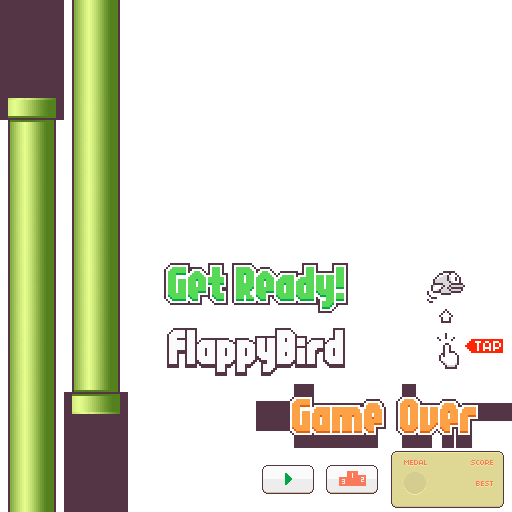
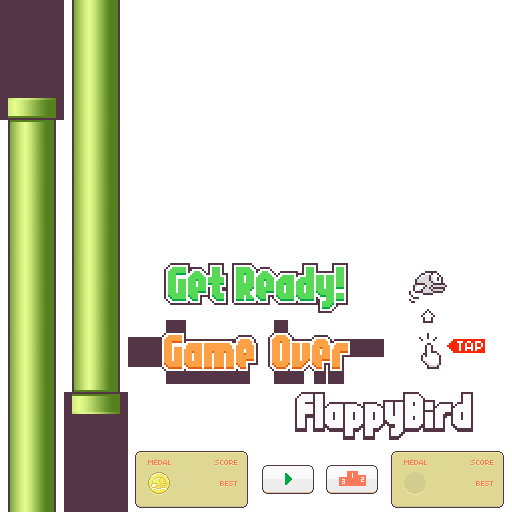
Add files via upload

Changed region(s): [[0.25, 0.625, 1.0, 0.875], [0.25, 0.875, 0.5, 1.0], [0.7812, 0.5312, 1.0, 0.7188]]

diff --git a/flappy_bird/scripts/c3runtime.js b/flappy_bird/scripts/c3runtime.js
@@ -497,6 +497,42 @@ self["C3_Shaders"] = {};
 
 "use strict";C3.Plugins.Audio.Exps={Duration(b){const c=this._GetFirstAudioStateByTag(b);return c?c["duration"]:0},PlaybackTime(b){const c=this._GetFirstAudioStateByTag(b);return c?c["playbackTime"]:0},PlaybackRate(b){const c=this._GetFirstAudioStateByTag(b);return c?c["playbackRate"]:0},Volume(b){const c=this._GetFirstAudioStateByTag(b);return c?this.LinearToDb(c["volume"]):0},MasterVolume(){return this.LinearToDb(this._masterVolume)},EffectCount(a){return this._effectCount.get(a.toLowerCase())||0},AnalyserFreqBinCount(a,b){const c=this.GetAnalyserData(a,Math.floor(b));return c?c["binCount"]:0},AnalyserFreqBinAt(a,b,c){var d=Math.floor;const e=this.GetAnalyserData(a,d(b));return e?(c=d(c),0>c||c>=e["binCount"]?0:e["freqBins"][c]):0},AnalyserPeakLevel(a,b){const c=this.GetAnalyserData(a,Math.floor(b));return c?c["peak"]:0},AnalyserRMSLevel(a,b){const c=this.GetAnalyserData(a,Math.floor(b));return c?c["rms"]:0},SampleRate(){return this._sampleRate},CurrentTime(){return self["C3_GetAudioContextCurrentTime"]?self["C3_GetAudioContextCurrentTime"]():performance.now()/1e3}};
 
+"use strict";C3.Plugins.Text=class extends C3.SDKPluginBase{constructor(a){super(a)}Release(){super.Release()}};
+
+"use strict";C3.Plugins.Text.Type=class extends C3.SDKTypeBase{constructor(a){super(a)}Release(){super.Release()}OnCreate(){}LoadTextures(){}ReleaseTextures(){}};
+
+"use strict";{const a=[0,0,0],b=["left","center","right"],c=["top","center","bottom"],d=new C3.Rect,e=new C3.Quad;C3.Plugins.Text.Instance=class extends C3.SDKWorldInstanceBase{constructor(a,b){if(super(a),this._text="",this._enableBBcode=!0,this._faceName="Arial",this._ptSize=12,this._lineHeightOffset=0,this._isBold=!1,this._isItalic=!1,this._color=C3.New(C3.Color),this._horizontalAlign=0,this._verticalAlign=0,this._wrapByWord=!0,this._typewriterStartTime=-1,this._typewriterEndTime=-1,this._typewriterLength=0,this._webglText=C3.New(C3.Gfx.WebGLText,this._runtime.GetWebGLRenderer(),{timeout:5}),this._webglText.ontextureupdate=()=>this._runtime.UpdateRender(),this._webglText.SetIsAsync(!1),b){this._text=b[0],this._enableBBcode=!!b[1],this._faceName=b[2],this._ptSize=b[3],this._lineHeightOffset=b[4],this._isBold=!!b[5],this._isItalic=!!b[6],this._horizontalAlign=b[8],this._verticalAlign=b[9],this._wrapByWord=0===b[10];const a=b[7];this._color.setRgb(a[0],a[1],a[2]),this.GetWorldInfo().SetVisible(b[11])}this._UpdateTextSettings()}Release(){this._CancelTypewriter(),this._webglText.Release(),this._webglText=null,super.Release()}_UpdateTextSettings(){const a=this._webglText;a.SetText(this._text),a.SetBBCodeEnabled(this._enableBBcode),a.SetFontName(this._faceName),a.SetFontSize(this._ptSize),a.SetLineHeight(this._lineHeightOffset),a.SetBold(this._isBold),a.SetItalic(this._isItalic),a.SetColor(this._color),a.SetHorizontalAlignment(b[this._horizontalAlign]),a.SetVerticalAlignment(c[this._verticalAlign]),a.SetWordWrapMode(this._wrapByWord?"word":"character")}_UpdateTextSize(){const a=this.GetWorldInfo(),b=a.GetLayer(),c=b.GetRenderScale()*b.Get2DScaleFactorToZ(a.GetTotalZElevation());this._webglText.SetSize(a.GetWidth(),a.GetHeight(),c)}Draw(a){var b=Math.round;const c=this.GetWorldInfo();this._UpdateTextSize();const f=this._webglText.GetTexture();if(!f)return;const g=c.GetLayer();let h=c.GetBoundingQuad();if(0===c.GetAngle()&&0===c.GetLayer().GetAngle()&&0===c.GetTotalZElevation()){const[c,i]=g.LayerToDrawSurface(h.getTlx(),h.getTly()),[j,k]=g.LayerToDrawSurface(h.getBrx(),h.getBry()),l=c-b(c),m=i-b(i);d.set(c,i,j,k),d.offset(-l,-m),e.setFromRect(d);const[n,o]=a.GetRenderTargetSize(a.GetRenderTarget());this._runtime.GetCanvasManager().SetDeviceTransform(a,n,o),a.SetTexture(f),a.Quad3(e,this._webglText.GetTexRect()),g._SetTransform(a)}else{let c=0,d=0;this._runtime.IsPixelRoundingEnabled()&&(c=h.getTlx()-b(h.getTlx()),d=h.getTly()-b(h.getTly())),(0!=c||0!=d)&&(e.copy(h),e.offset(-c,-d),h=e),a.SetTexture(f),a.Quad3(h,this._webglText.GetTexRect())}}SaveToJson(){const a={"t":this._text,"c":this._color.toJSON(),"fn":this._faceName,"ps":this._ptSize};return this._enableBBcode&&(a["bbc"]=this._enableBBcode),0!==this._horizontalAlign&&(a["ha"]=this._horizontalAlign),0!==this._verticalAlign&&(a["va"]=this._verticalAlign),this._wrapByWord||(a["wr"]=this._wrapByWord),0!==this._lineHeightOffset&&(a["lho"]=this._lineHeightOffset),this._isBold&&(a["b"]=this._isBold),this._isItalic&&(a["i"]=this._isItalic),-1!==this._typewriterEndTime&&(a["tw"]={"st":this._typewriterStartTime,"en":this._typewriterEndTime,"l":this._typewriterLength}),a}LoadFromJson(a){if(this._CancelTypewriter(),this._text=a["t"],this._color.setFromJSON(a["c"]),this._faceName=a["fn"],this._ptSize=a["ps"],this._enableBBcode=!!a.hasOwnProperty("bbc")&&a["bbc"],this._horizontalAlign=a.hasOwnProperty("ha")?a["ha"]:0,this._verticalAlign=a.hasOwnProperty("va")?a["va"]:0,this._wrapByWord=!a.hasOwnProperty("wr")||a["wr"],this._lineHeightOffset=a.hasOwnProperty("lho")?a["lho"]:0,this._isBold=!!a.hasOwnProperty("b")&&a["b"],this._isItalic=!!a.hasOwnProperty("i")&&a["i"],a.hasOwnProperty("tw")){const b=a["tw"];this._typewriterStartTime=b["st"],this._typewriterEndTime=b["en"],this._typewriterLength=b["l"]}this._UpdateTextSettings(),-1!==this._typewriterEndTime&&this._StartTicking()}GetPropertyValueByIndex(b){return 0===b?this._text:1===b?this._enableBBcode:2===b?this._faceName:3===b?this._ptSize:4===b?this._lineHeightOffset:5===b?this._isBold:6===b?this._isItalic:7===b?(a[0]=this._color.getR(),a[1]=this._color.getG(),a[2]=this._color.getB(),a):8===b?this._horizontalAlign:9===b?this._verticalAlign:10===b?this._wrapByWord?1:0:void 0}SetPropertyValueByIndex(a,b){switch(a){case 0:if(this._text===b)return;this._text=b,this._UpdateTextSettings();break;case 1:if(this._enableBBcode===!!b)return;this._enableBBcode=!!b,this._UpdateTextSettings();break;case 2:if(this._faceName===b)return;this._faceName=b,this._UpdateTextSettings();break;case 3:if(this._ptSize===b)return;this._ptSize=b,this._UpdateTextSettings();break;case 4:if(this._lineHeightOffset===b)return;this._lineHeightOffset=b,this._UpdateTextSettings();break;case 5:if(this._isBold===!!b)return;this._isBold=!!b,this._UpdateTextSettings();break;case 6:if(this._isItalic===!!b)return;this._isItalic=!!b,this._UpdateTextSettings();break;case 7:const d=this._color,c=b;if(d.getR()===c[0]&&d.getG()===c[1]&&d.getB()===c[2])return;this._color.setRgb(c[0],c[1],c[2]),this._UpdateTextSettings();break;case 8:if(this._horizontalAlign===b)return;this._horizontalAlign=b,this._UpdateTextSettings();break;case 9:if(this._verticalAlign===b)return;this._verticalAlign=b,this._UpdateTextSettings();break;case 10:if(this._wrapByWord===(b===0))return;this._wrapByWord=b===0,this._UpdateTextSettings();}}SetPropertyOffsetValueByIndex(a,b){0!==b&&(3===a?(this._ptSize+=b,this._UpdateTextSettings()):4===a?(this._lineHeightOffset+=b,this._UpdateTextSettings()):void 0)}SetPropertyColorOffsetValueByIndex(a,c,d,e){(0!==c||0!==d||0!==e)&&(7===a?(this._color.addRgb(c,d,e),this._UpdateTextSettings()):void 0)}_SetText(a){this._text===a||(this._text=a,this._webglText.SetText(a),this._runtime.UpdateRender())}GetText(){return this._text}_StartTypewriter(a,b){this._SetText(a),this._typewriterStartTime=this._runtime.GetGameTime(),this._typewriterEndTime=this._typewriterStartTime+b,this._typewriterLength=C3.BBString.StripAnyTags(a).length,this._webglText.SetDrawMaxCharacterCount(0),this._StartTicking()}_CancelTypewriter(){this._typewriterStartTime=-1,this._typewriterEndTime=-1,this._typewriterLength=0,this._webglText.SetDrawMaxCharacterCount(-1),this._StopTicking()}_FinishTypewriter(){-1===this._typewriterEndTime||(this._CancelTypewriter(),this.Trigger(C3.Plugins.Text.Cnds.OnTypewriterTextFinished),this._runtime.UpdateRender())}_SetFontFace(a){this._faceName===a||(this._faceName=a,this._webglText.SetFontName(a),this._runtime.UpdateRender())}_GetFontFace(){return this._faceName}_SetBold(a){a=!!a;this._isBold===a||(this._isBold=a,this._webglText.SetBold(a),this._runtime.UpdateRender())}_IsBold(){return this._isBold}_SetItalic(a){a=!!a;this._isItalic===a||(this._isItalic=a,this._webglText.SetItalic(a),this._runtime.UpdateRender())}_IsItalic(){return this._isItalic}_SetFontSize(a){this._ptSize===a||(this._ptSize=a,this._webglText.SetFontSize(this._ptSize),this._runtime.UpdateRender())}_GetFontSize(){return this._ptSize}_SetLineHeight(a){this._lineHeightOffset===a||(this._lineHeightOffset=a,this._UpdateTextSettings(),this._runtime.UpdateRender())}_GetLineHeight(){return this._lineHeightOffset}_SetHAlign(a){this._horizontalAlign===a||(this._horizontalAlign=a,this._UpdateTextSettings(),this._runtime.UpdateRender())}_GetHAlign(){return this._horizontalAlign}_SetVAlign(a){this._verticalAlign===a||(this._verticalAlign=a,this._UpdateTextSettings(),this._runtime.UpdateRender())}_GetVAlign(){return this._verticalAlign}_SetWrapByWord(a){a=!!a;this._wrapByWord===a||(this._wrapByWord=a,this._UpdateTextSettings(),this._runtime.UpdateRender())}_IsWrapByWord(){return this._wrapByWord}Tick(){const a=this._runtime.GetGameTime();if(a>=this._typewriterEndTime)this._CancelTypewriter(),this.Trigger(C3.Plugins.Text.Cnds.OnTypewriterTextFinished),this._runtime.UpdateRender();else{let b=C3.relerp(this._typewriterStartTime,this._typewriterEndTime,a,0,this._typewriterLength);b=Math.floor(b),b!==this._webglText.GetDrawMaxCharacterCount()&&(this._webglText.SetDrawMaxCharacterCount(b),this._runtime.UpdateRender())}}GetDebuggerProperties(){return[{title:"plugins.text.name",properties:[{name:"plugins.text.properties.text.name",value:this._text,onedit:(a)=>this._SetText(a)}]}]}GetScriptInterfaceClass(){return ITextInstance}};const f=new WeakMap,g=new Map([["left",0],["center",1],["right",2]]),h=new Map([["top",0],["center",1],["bottom",2]]),i=new Map([["word",!0],["character",!1]]);self.ITextInstance=class extends IWorldInstance{constructor(){super(),f.set(this,IInstance._GetInitInst().GetSdkInstance())}get text(){return f.get(this).GetText()}set text(a){const b=f.get(this);b._CancelTypewriter(),b._SetText(a)}typewriterText(a,b){const c=f.get(this);c._CancelTypewriter(),c._StartTypewriter(a,b)}typewriterFinish(){f.get(this)._FinishTypewriter()}set fontFace(a){f.get(this)._SetFontFace(a)}get fontFace(){return f.get(this)._GetFontFace()}set isBold(a){f.get(this)._SetBold(a)}get isBold(){return f.get(this)._IsBold()}set isItalic(a){f.get(this)._SetItalic(a)}get isItalic(){return f.get(this)._IsItalic()}set sizePt(a){f.get(this)._SetFontSize(a)}get sizePt(){return f.get(this)._GetFontSize()}set lineHeight(a){f.get(this)._SetLineHeight(a)}get lineHeight(){return f.get(this)._GetLineHeight()}set horizontalAlign(a){const b=g.get(a);if("undefined"==typeof b)throw new Error("invalid mode");f.get(this)._SetHAlign(b)}get horizontalAlign(){return b[f.get(this)._GetHAlign()]}set verticalAlign(a){const b=h.get(a);if("undefined"==typeof b)throw new Error("invalid mode");f.get(this)._SetVAlign(b)}get verticalAlign(){return c[f.get(this)._GetVAlign()]}set wordWrapMode(a){const b=i.get(a);if("undefined"==typeof b)throw new Error("invalid mode");f.get(this)._SetWrapByWord(b)}get wordWrapMode(){return f.get(this)._IsWrapByWord()?"word":"character"}}}
+
+"use strict";C3.Plugins.Text.Cnds={CompareText(a,b){return b?this._text===a:C3.equalsNoCase(this._text,a)},IsRunningTypewriterText(){return-1!==this._typewriterEndTime},OnTypewriterTextFinished(){return!0}};
+
+"use strict";{const a=C3.New(C3.Color);C3.Plugins.Text.Acts={SetText(a){this._CancelTypewriter(),"number"==typeof a&&1e9>a&&(a=Math.round(1e10*a)/1e10),this._SetText(a.toString())},AppendText(a){this._CancelTypewriter(),"number"==typeof a&&1e9>a&&(a=Math.round(1e10*a)/1e10),a=a.toString();a&&this._SetText(this._text+a)},TypewriterText(a,b){this._CancelTypewriter(),"number"==typeof a&&1e9>a&&(a=Math.round(1e10*a)/1e10),this._StartTypewriter(a.toString(),b)},SetFontFace(a,b){let c=!1,d=!1;1===b?c=!0:2===b?d=!0:3===b?(c=!0,d=!0):void 0;a===this._faceName&&c===this._isBold&&d===this._isItalic||(this._SetFontFace(a),this._SetBold(c),this._SetItalic(d))},SetFontSize(a){this._SetFontSize(a)},SetFontColor(b){a.setFromRgbValue(b),a.clamp();this._color.equalsIgnoringAlpha(a)||(this._color.copyRgb(a),this._webglText.SetColor(this._color),this._runtime.UpdateRender())},SetWebFont(){console.warn("[Text] 'Set web font' action is deprecated and no longer has any effect")},SetEffect(a){this.GetWorldInfo().SetBlendMode(a),this._runtime.UpdateRender()},TypewriterFinish(){this._FinishTypewriter()},SetLineHeight(a){this._SetLineHeight(a)},SetHAlign(a){this._SetHAlign(a)},SetVAlign(a){this._SetVAlign(a)},SetWrapping(a){this._SetWrapByWord(0===a)}}}
+
+"use strict";C3.Plugins.Text.Exps={Text(){return this._text},PlainText(){return this._enableBBcode?C3.BBString.StripAnyTags(this._text):this._text},FaceName(){return this._faceName},FaceSize(){return this._ptSize},TextWidth(){return this._UpdateTextSize(),this._webglText.GetTextWidth()},TextHeight(){return this._UpdateTextSize(),this._webglText.GetTextHeight()},LineHeight(){return this._lineHeightOffset}};
+
+"use strict";C3.Plugins.LocalStorage=class extends C3.SDKPluginBase{constructor(a){super(a)}Release(){super.Release()}};
+
+"use strict";C3.Plugins.LocalStorage.Type=class extends C3.SDKTypeBase{constructor(a){super(a)}Release(){super.Release()}OnCreate(){}};
+
+"use strict";C3.Plugins.LocalStorage.Instance=class extends C3.SDKInstanceBase{constructor(a){super(a),this._currentKey="",this._lastValue="",this._keyNamesList=[],this._errorMessage="",this._pendingGets=0,this._pendingSets=0,this._storage=this._runtime._GetProjectStorage(),this._debugCache=new Map,this._isLoadingDebugCache=!1}Release(){super.Release()}async _TriggerStorageError(a){this._errorMessage=this._GetErrorString(a),await this.TriggerAsync(C3.Plugins.LocalStorage.Cnds.OnError)}_GetErrorString(a){return a?"string"==typeof a?a:"string"==typeof a.message?a.message:"string"==typeof a.name?a.name:"string"==typeof a.data?a.data:"unknown error":"unknown error"}GetDebuggerProperties(){return this._isLoadingDebugCache||this._DebugCacheStorage(),[{title:"plugins.localstorage.name",properties:[...this._debugCache.entries()].map((a)=>({name:"$"+a[0],value:a[1],onedit:(b)=>this._storage.setItem(a[0],b)}))}]}async _DebugCacheStorage(){this._isLoadingDebugCache=!0;try{const a=await this._storage.keys();a.sort((c,a)=>{const b=c.toLowerCase(),d=a.toLowerCase();return b<d?-1:d<b?1:0});const b=await Promise.all(a.map((a)=>this._storage.getItem(a)));this._debugCache.clear();for(let c=0,d=a.length;c<d;++c)this._debugCache.set(a[c],b[c])}catch(a){console.warn("[C3 debugger] Error displaying local storage: ",a)}finally{this._isLoadingDebugCache=!1}}};
+
+"use strict";C3.Plugins.LocalStorage.Cnds={OnItemSet(a){return this._currentKey===a},OnAnyItemSet(){return!0},OnItemGet(a){return this._currentKey===a},OnAnyItemGet(){return!0},OnItemRemoved(a){return this._currentKey===a},OnAnyItemRemoved(){return!0},OnCleared(){return!0},OnAllKeyNamesLoaded(){return!0},OnError(){return!0},OnItemExists(a){return this._currentKey===a},OnItemMissing(a){return this._currentKey===a},CompareKey(a,b){return C3.compare(this._currentKey,a,b)},CompareValue(a,b){return C3.compare(this._lastValue,a,b)},IsProcessingSets(){return 0<this._pendingSets},IsProcessingGets(){return 0<this._pendingGets},OnAllSetsComplete(){return!0},OnAllGetsComplete(){return!0}};
+
+"use strict";{function a(a){return"string"==typeof a||"number"==typeof a}C3.Plugins.LocalStorage.Acts={async SetItem(a,b){this._pendingSets++;try{const c=await this._storage.setItem(a,b);await this.ScheduleTriggers(async()=>{this._currentKey=a,this._lastValue=c,await this.TriggerAsync(C3.Plugins.LocalStorage.Cnds.OnAnyItemSet),await this.TriggerAsync(C3.Plugins.LocalStorage.Cnds.OnItemSet)})}catch(a){await this._TriggerStorageError(a)}finally{this._pendingSets--,0===this._pendingSets&&(await this.TriggerAsync(C3.Plugins.LocalStorage.Cnds.OnAllSetsComplete))}},async SetBinaryItem(a,b){if(b){const c=b.GetFirstPicked(this._inst);if(c){const b=c.GetSdkInstance();if(b){const c=b.GetArrayBufferReadOnly();this._pendingSets++;try{await this._storage.setItem(a,c),await this.ScheduleTriggers(async()=>{this._currentKey=a,this._lastValue="",await this.TriggerAsync(C3.Plugins.LocalStorage.Cnds.OnAnyItemSet),await this.TriggerAsync(C3.Plugins.LocalStorage.Cnds.OnItemSet)})}catch(a){await this._TriggerStorageError(a)}finally{this._pendingSets--,0===this._pendingSets&&(await this.TriggerAsync(C3.Plugins.LocalStorage.Cnds.OnAllSetsComplete))}}}}},async GetItem(b){this._pendingGets++;try{const c=await this._storage.getItem(b);await this.ScheduleTriggers(async()=>{this._currentKey=b,this._lastValue=a(c)?c:"",await this.TriggerAsync(C3.Plugins.LocalStorage.Cnds.OnAnyItemGet),await this.TriggerAsync(C3.Plugins.LocalStorage.Cnds.OnItemGet)})}catch(a){await this._TriggerStorageError(a)}finally{this._pendingGets--,0===this._pendingGets&&(await this.TriggerAsync(C3.Plugins.LocalStorage.Cnds.OnAllGetsComplete))}},async GetBinaryItem(a,b){if(!b)return;const c=b.GetFirstPicked(this._inst);if(!c)return;const d=c.GetSdkInstance();this._pendingGets++;try{let b=await this._storage.getItem(a);b=b instanceof ArrayBuffer?b:new ArrayBuffer(0),await this.ScheduleTriggers(async()=>{this._lastValue="",this._currentKey=a,d.SetArrayBufferTransfer(b),await this.TriggerAsync(C3.Plugins.LocalStorage.Cnds.OnAnyItemGet),await this.TriggerAsync(C3.Plugins.LocalStorage.Cnds.OnItemGet)})}catch(a){await this._TriggerStorageError(a)}finally{this._pendingGets--,0===this._pendingGets&&(await this.TriggerAsync(C3.Plugins.LocalStorage.Cnds.OnAllGetsComplete))}},async CheckItemExists(b){try{const c=await this._storage.getItem(b);await this.ScheduleTriggers(async()=>{this._currentKey=b,"undefined"==typeof c||null===c?(this._lastValue="",await this.TriggerAsync(C3.Plugins.LocalStorage.Cnds.OnItemMissing)):(this._lastValue=a(c)?c:"",await this.TriggerAsync(C3.Plugins.LocalStorage.Cnds.OnItemExists))})}catch(a){await this._TriggerStorageError(a)}},async RemoveItem(a){try{await this._storage.removeItem(a),await this.ScheduleTriggers(async()=>{this._currentKey=a,this._lastValue="",await this.TriggerAsync(C3.Plugins.LocalStorage.Cnds.OnAnyItemRemoved),await this.TriggerAsync(C3.Plugins.LocalStorage.Cnds.OnItemRemoved)})}catch(a){await this._TriggerStorageError(a)}},async ClearStorage(){try{await this._storage.clear(),await this.ScheduleTriggers(async()=>{this._currentKey="",this._lastValue="",C3.clearArray(this._keyNamesList),await this.TriggerAsync(C3.Plugins.LocalStorage.Cnds.OnCleared)})}catch(a){await this._TriggerStorageError(a)}},async GetAllKeyNames(){try{const a=await this._storage.keys();await this.ScheduleTriggers(async()=>{this._keyNamesList=a,await this.TriggerAsync(C3.Plugins.LocalStorage.Cnds.OnAllKeyNamesLoaded)})}catch(a){await this._TriggerStorageError(a)}}}}
+
+"use strict";C3.Plugins.LocalStorage.Exps={ItemValue(){return this._lastValue},Key(){return this._currentKey},KeyCount(){return this._keyNamesList.length},KeyAt(a){return a=Math.floor(a),0>a||a>=this._keyNamesList.length?"":this._keyNamesList[a]},ErrorMessage(){return this._errorMessage}};
+
+"use strict";C3.Behaviors.scrollto=class extends C3.SDKBehaviorBase{constructor(a){super(a),this._shakeMag=0,this._shakeStart=0,this._shakeEnd=0,this._shakeMode=0}Release(){super.Release()}SetShakeMagnitude(a){this._shakeMag=a}GetShakeMagnitude(){return this._shakeMag}SetShakeStart(a){this._shakeStart=a}GetShakeStart(){return this._shakeStart}SetShakeEnd(a){this._shakeEnd=a}GetShakeEnd(){return this._shakeEnd}SetShakeMode(a){this._shakeMode=a}GetShakeMode(){return this._shakeMode}};
+
+"use strict";C3.Behaviors.scrollto.Type=class extends C3.SDKBehaviorTypeBase{constructor(a){super(a)}Release(){super.Release()}OnCreate(){}};
+
+"use strict";{C3.Behaviors.scrollto.Instance=class extends C3.SDKBehaviorInstanceBase{constructor(a,b){super(a),this._isEnabled=!0,b&&(this._isEnabled=b[0]),this._isEnabled&&this._StartTicking2()}Release(){super.Release()}SaveToJson(){const a=this.GetBehavior();return{"e":this._isEnabled,"smg":a.GetShakeMagnitude(),"ss":a.GetShakeStart(),"se":a.GetShakeEnd(),"smd":a.GetShakeMode()}}LoadFromJson(a){const b=this.GetBehavior();b.SetShakeMagnitude(a["smg"]),b.SetShakeStart(a["ss"]),b.SetShakeEnd(a["se"]),b.SetShakeMode(a["smd"]),this._isEnabled=a["e"],this._isEnabled?this._StartTicking2():this._StopTicking2()}IsEnabled(){return this._isEnabled}Tick2(){if(!this.IsEnabled())return;const a=this._runtime.GetDt(this._inst),b=this.GetBehavior(),c=b.GetInstances();let d=0,e=0,f=0;for(const a of c){const b=a.GetBehaviorInstanceFromCtor(C3.Behaviors.scrollto);if(!b||!b.GetSdkInstance().IsEnabled())continue;const c=a.GetWorldInfo();d+=c.GetX(),e+=c.GetY(),++f}const g=this._inst.GetWorldInfo().GetLayout(),h=this._runtime.GetGameTime();let i=0,j=0;if(h>=b.GetShakeStart()&&h<b.GetShakeEnd()){let c=b.GetShakeMagnitude()*Math.min(this._runtime.GetTimeScale(),1);0===b.GetShakeMode()&&(c*=1-(h-b.GetShakeStart())/(b.GetShakeEnd()-b.GetShakeStart()));const e=2*(this._runtime.Random()*Math.PI),a=this._runtime.Random()*c;i=Math.cos(e)*a,j=Math.sin(e)*a}g.SetScrollX(d/f+i),g.SetScrollY(e/f+j)}GetPropertyValueByIndex(a){return a===0?this._isEnabled:void 0}SetPropertyValueByIndex(a,b){a===0?(this._isEnabled=!!b,this._isEnabled?this._StartTicking2():this._StopTicking2()):void 0}}}
+
+"use strict";C3.Behaviors.scrollto.Cnds={IsEnabled(){return this._isEnabled}};
+
+"use strict";C3.Behaviors.scrollto.Acts={Shake(a,b,c){const d=this.GetBehavior();d.SetShakeMagnitude(a),d.SetShakeStart(this._runtime.GetGameTime()),d.SetShakeEnd(this._runtime.GetGameTime()+b),d.SetShakeMode(c)},SetEnabled(a){this._isEnabled=0!==a,this._isEnabled?this._StartTicking2():this._StopTicking2()}};
+
+"use strict";C3.Behaviors.scrollto.Exps={};
+
 "use strict";C3.Behaviors.Platform=class extends C3.SDKBehaviorBase{constructor(a){super(a)}Release(){super.Release()}};
 
 "use strict";C3.Behaviors.Platform.Type=class extends C3.SDKBehaviorTypeBase{constructor(a){super(a)}Release(){super.Release()}OnCreate(){}};
@@ -561,6 +597,7 @@ self["C3_Shaders"] = {};
 self.C3_GetObjectRefTable = function () {
 	return [
 		C3.Plugins.Sprite,
+		C3.Behaviors.scrollto,
 		C3.Behaviors.Platform,
 		C3.Behaviors.Sin,
 		C3.Behaviors.Anchor,
@@ -568,21 +605,29 @@ self.C3_GetObjectRefTable = function () {
 		C3.Plugins.Audio,
 		C3.Behaviors.Fade,
 		C3.Behaviors.Pin,
+		C3.Plugins.Text,
+		C3.Plugins.LocalStorage,
+		C3.Plugins.System.Cnds.OnLayoutStart,
+		C3.Plugins.LocalStorage.Acts.CheckItemExists,
+		C3.Behaviors.Pin.Acts.Pin,
 		C3.Plugins.System.Cnds.EveryTick,
 		C3.Plugins.System.Cnds.CompareVar,
 		C3.Plugins.Sprite.Acts.SetX,
 		C3.Plugins.Sprite.Exps.X,
+		C3.Plugins.LocalStorage.Cnds.OnItemExists,
+		C3.Plugins.System.Acts.SetVar,
+		C3.Plugins.LocalStorage.Exps.ItemValue,
+		C3.Plugins.Text.Acts.SetText,
 		C3.Plugins.Sprite.Cnds.CompareX,
 		C3.Plugins.Touch.Cnds.OnTouchStart,
 		C3.Behaviors.Platform.Acts.SetVectorY,
 		C3.Plugins.Sprite.Acts.SetAngle,
 		C3.Plugins.Sprite.Acts.StartAnim,
 		C3.Plugins.Audio.Acts.Play,
-		C3.Plugins.System.Acts.SetVar,
 		C3.Behaviors.Platform.Acts.SetEnabled,
 		C3.Plugins.Sprite.Acts.Destroy,
 		C3.Behaviors.Sin.Acts.SetEnabled,
-		C3.Behaviors.Pin.Acts.Pin,
+		C3.Plugins.Text.Acts.SetVisible,
 		C3.Plugins.System.Cnds.TriggerOnce,
 		C3.Plugins.System.Acts.CreateObject,
 		C3.Plugins.System.Exps.random,
@@ -596,7 +641,13 @@ self.C3_GetObjectRefTable = function () {
 		C3.Behaviors.Fade.Acts.StartFade,
 		C3.Plugins.Sprite.Acts.ZMoveToObject,
 		C3.Plugins.Sprite.Acts.SetY,
+		C3.Behaviors.scrollto.Acts.Shake,
+		C3.Plugins.Text.Acts.SetOpacity,
+		C3.Plugins.Sprite.Acts.SetAnimFrame,
+		C3.Plugins.LocalStorage.Acts.SetItem,
+		C3.Plugins.System.Acts.AddVar,
 		C3.Plugins.Touch.Cnds.OnTapGestureObject,
+		C3.Plugins.Sprite.Cnds.CompareOpacity,
 		C3.Plugins.System.Acts.GoToLayout,
 		C3.Plugins.System.Acts.ResetGlobals,
 		C3.Plugins.Sprite.Cnds.CompareFrame
@@ -618,6 +669,10 @@ self.C3_JsPropNameTable = [
 	{GameOver: 0},
 	{UI_GameOver: 0},
 	{Button_GameOver: 0},
+	{ScoreNow: 0},
+	{МестноеХранилище: 0},
+	{Score: 0},
+	{BestScore: 0},
 	{Speed: 0},
 	{Movement: 0}
 ];
@@ -718,15 +773,24 @@ self.C3_JsPropNameTable = [
 	}
 
 	self.C3_ExpressionFuncs = [
+		() => "Score",
 		() => 1,
 		p => {
 			const n0 = p._GetNode(0);
 			const v1 = p._GetNode(1).GetVar();
 			return () => (n0.ExpObject() - v1.GetValue());
 		},
+		p => {
+			const f0 = p._GetNode(0).GetBoundMethod();
+			return () => f0();
+		},
+		p => {
+			const v0 = p._GetNode(0).GetVar();
+			return () => and("", v0.GetValue());
+		},
 		() => -672,
 		() => 480,
-		() => -800,
+		() => -900,
 		() => 330,
 		() => 0,
 		() => "",
@@ -742,10 +806,10 @@ self.C3_JsPropNameTable = [
 		},
 		p => {
 			const n0 = p._GetNode(0);
-			return () => (n0.ExpObject() + 2175);
+			return () => (n0.ExpObject() + 2040);
 		},
 		() => -150,
-		() => 7,
+		() => 6,
 		() => 90,
 		() => 2,
 		p => {
@@ -755,6 +819,12 @@ self.C3_JsPropNameTable = [
 		p => {
 			const n0 = p._GetNode(0);
 			return () => C3.lerp(n0.ExpObject(), 350, 0.1);
+		},
+		() => 60,
+		() => 0.6,
+		p => {
+			const v0 = p._GetNode(0).GetVar();
+			return () => v0.GetValue();
 		}
 	];
 }

diff --git a/flappy_bird/index.html b/flappy_bird/index.html
@@ -22,7 +22,7 @@
 		<div id="notSupportedWrap">
 			<h2 id="notSupportedTitle">This content requires JavaScript</h2>
 			<p class="notSupportedMessage">JavaScript appears to be disabled. Please enable it to view this content.</p>
-			<p class="notSupportedMessage">This game was designed using Construct 3, an <a href="https://www.construct.net/en">online game creator</a>.</p>
+			<p class="notSupportedMessage">This content was created in Construct. <a href="https://www.construct.net/en">Build your own game</a></p>
 		</div>
 	</noscript>
 	<script src="scripts/supportcheck.js"></script>
